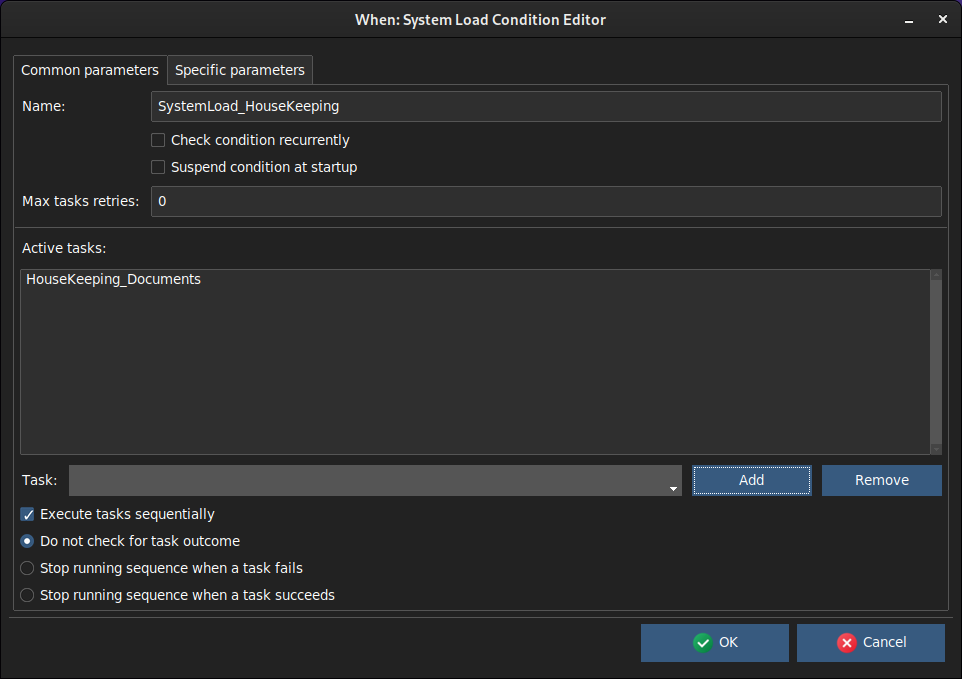
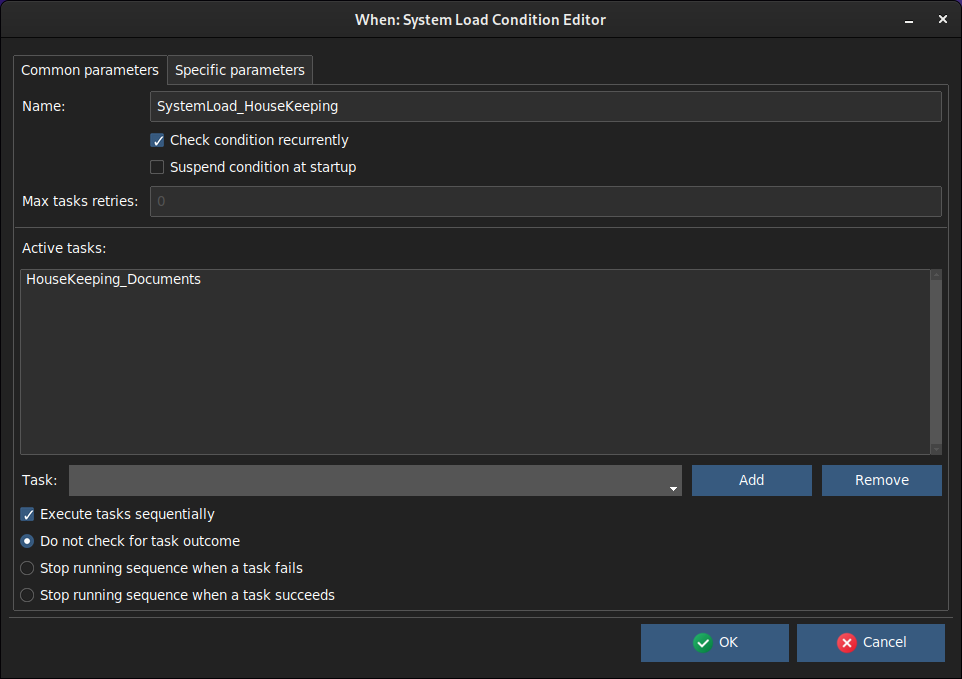
Documentation amendments and fixes

Changed region(s): [[0.1559, 0.1237, 0.3742, 0.2784], [0.0312, 0.2784, 0.1871, 0.3093]]

diff --git a/support/docs/tutorial.md b/support/docs/tutorial.md
@@ -30,25 +30,25 @@ We will use the environment variable method to let _restic_ know where the repos
 As we do not want to pollute the environment, we will set tese variables directly in the task definitions. We will define two tasks:
 
 1. the first task will actually backup some directories,
-2. the second task will perform some maintenance in the backups.
+2. the second task will perform some backup repository maintenance.
 
 We want to backup our _Documents_ and our _Pictures_ directories: on Windows they are located respectively in `C:\Users\username\Documents` and `C:\Users\username\Pictures`.
 
 > **Note**: Depending on the amount of data, the first backup can take quite a long time in order to be carried out: consider the option of forcing a full backup by issuing the command `restic backup Documents Pictures` from the command line in your home directory, before automating it using **When**.
 
-First off, we launch the configuration utility: if the program icons for **When** had been created as described in the installation instructions, then clicking _Configure When_ on the desktop or selectiong it in the _Start_ menu should be sufficient. Another option is to launch `when config` from the command line or, if there is an instance of **When** running, to right-click the clock-shaped system tray icon, and to select _Configurator..._ from the context menu. The result is the same: the configuration GUI utility is launched, and we will click the _New_ button, which in turn allows us to select a _Command Based Task_:
+First off, we launch the configuration utility: if the program icons for **When** had been created as described in the installation instructions, then clicking _Configure When_ on the desktop or in the _Start_ menu should be sufficient. Other options are to launch `when config` from the command line or, if there is an instance of **When** running, to right-click the clock-shaped system tray icon, and to select _Configurator..._ from the context menu. The result is the same, apart from what we'll see below for the latter, that is the configuration GUI utility is launched, and we will click the _New_ button, which in turn allows us to select a _Command Based Task_:
 
 ![TutorialBackup01](graphics/tutorial_task_new_cmd01.png)
 
 Clicking _Ok_ takes us to the specific task editor. We choose to start _restic_ in the home directory, in order to only mention subdirectories on the command line: this can be done by specifying the home directory in the _Working Folder_ text entry, which can also be done by selecting it via the three-dotted button on its right side. Actually, for new _Command Based Tasks_, **When** proposes the home directory as the default value for this entry, so in our case it can be just left as it is.
 
-We have to define the two aforementioned variables in our task environment: to do so, for each of them, the name (which on Windows is not case sensitive, but it could be better to respect the casing specified in the _restic_ documentation just to be sure) has to be written in the entry labeled _Variable Name:_, the value in the one labeled _New Value:_, and then the _Update_ button has to be clicked. Clicking _Update_ either sets a new variable (if the name is not present) or updates an existing one.
+We have to define the two aforementioned variables in our task environment: to do so, for each of them, the name (which on Windows is not case sensitive, but it could be better to respect the casing specified in the _restic_ documentation just to be sure) has to be written in the entry labeled _Variable Name_, the value in the one labeled _New Value_, and then the _Update_ button has to be clicked. Clicking _Update_ either sets a new variable (if the name is not present) or updates an existing one.
 
 Before clicking _Ok_ the form should be configured as follows:
 
 ![TutorialBackup02](graphics/tutorial_task_backup01.png)
 
-The reason why we chose to check for a failure in _restic_ and that such failure only occurs with an exit code of _1_ is that this is the exit code that _restic_ uses to inform that no snapshot could be taken at all. Since some files could be open during backup (it will be unattended, after all), maybe _restic_ will not be able to backup really everything. So we consider our backup to be a failure only when it is a total failure.
+The reason why we chose to check for a failure in _restic_ and that such failure only occurs with an exit code of _1_ is that this is the exit code that _restic_ uses to inform that no snapshot could be taken at all. Since some files could be open during backup (it should be unattended, after all), maybe _restic_ will not be able to backup really everything. So we consider our backup to be a failure only when it is a _complete_ failure.
 
 We could have accepted the suggested name for the task, something similar to _CommandTask_086F5F6C49_, but it would have been hardly recognizable when defining under which conditions it should take place.
 
@@ -61,7 +61,7 @@ We also want to perform some maintenance after we backed up our stuff. Namely we
 
 Yes, _restic_ [allows us to do so](https://restic.readthedocs.io/en/stable/060_forget.html#removing-snapshots-according-to-a-policy): everybody loves _restic_ and this is not a surprise to me. Following the documentation we should build a command line like the following:
 
-```text
+```shell
 restic --quiet forget --keep-daily 7 --keep-weekly 4 --keep-monthly 12 --keep-yearly 3 --prune
 ```
 
@@ -100,7 +100,7 @@ Here we just write _3_ in the only available text entry: _minutes_ is the defaul
 
 This example was in the original **When** tutorial, I found it useful on Linux because many utilities leave temporary backups (those files that end with a _tilde_ `~` character) when you modify a file by default. On one hand I didn't want to modify the default settings of all of these utilities, and on the other I didn't like to find my _Documents_ folder full of these files that I had to find and remove from time to time.
 
-This example is on an up-to-date Linux machine, assuming a working Gnome on X.org desktop session, and a simple shell script will be used as the cleanup command. It also assumes that the CLI command to move files to the _Trash_ bin is installed, in order to avoid to completely remove these files, as they could be useful anyway in some cases. If the `trash` command is not available, the following command can be used on Debian based distributions:
+This example takes place on an up-to-date Linux machine, assuming a working Gnome on X.org desktop session, and a simple shell script will be used as the cleanup command. It also assumes that the CLI command to move files to the _Trash_ bin is installed, in order to avoid to completely remove these files, as they could be useful anyway in some cases. If the `trash` command is not available, the following command can be used on Debian based distributions:
 
 ```shell
 sudo apt install trash-cli
@@ -123,7 +123,7 @@ find . -path ./.local/share/Trash -prune \
     -exec trash -f '{}' \;
 ```
 
-and save the file hitting _Ctrl+S_, then _Ctrl+X_ to exit the editor. The reason for the `-path ./.local/share/Trash -prune` line is that, since this script could be started in any directory, including the home directory (where _./.local/share/Trash_ is found), we do not want the script to handle files already in the _Trash_ bin again. Of course, being this a single command, the same command have been placed directly in the _command_ section of a [Command Based Task](tasks.md#command), but a small script does not really introduce extra costs and make things somewhat more clear. At last we change permissions for the script, in order for it to be executable:
+and save the file hitting _Ctrl+S_, then _Ctrl+X_ to exit the editor. The reason for the `-path ./.local/share/Trash -prune` line is that, since this script could be started in any directory, including the home directory (where _./.local/share/Trash_ is found), we do not want the script to handle files already in the _Trash_ bin again. Of course, being this a single command, the same command could have been placed directly in the _command_ section of a [Command Based Task](tasks.md#command), but a small script does not really introduce extra costs and make things somewhat more clear. At last we change permissions for the script, in order for it to be executable:
 
 ```shell
 chmod a+x housekeep.sh
@@ -136,11 +136,13 @@ cd
 when config
 ```
 
-Of course, if **When** is already running, the tray icon can be clicked and _Configure..._ can be selected in the popup menu window. The task has to be created first, and clicking _New_ and selecting a command based task as in the previous example brings up the command task editor form. We just chenge the name of the task to be something more understandable, point to the script as our command and set the working directory:
+Of course, if **When** is already running, the tray icon can be clicked and _Configure..._ can be selected in the popup [menu form](tray.md#menu-form). The task has to be created first, and clicking _New_ and selecting a command based task as in the previous example brings up the command task editor form. We just change the name of the task to be something more understandable, point to the script as our command and set the working directory:
 
-[TutorialChores01](graphics/tutorial_task_chores01.png)
+![TutorialChores01](graphics/tutorial_task_chores01.png)
 
-We leave all other parameters alone, because the script takes no arguments and does not explicitly return anything meaningful. What we want is for it to run from time to time regardless of the outcome: if one or more files could not be sent to the bin, it probably will happen the next time the script runs. Now we set up a condition to tell **whenever** in which case the scrippt has to be run. The script is in fact very lightweight, and it will probably never really disturb us. However, running it on a strict (and possibly tight) time schedule might be overkill: some possible choices that do not depend on time might be
+Note that the _Command_ entry shows the full path of our command: this is because I used the three-dotted button at the side of the entry to open a dialog box that allows to look for the executable file. Actually, if _housekeep.sh_ is in the _PATH_ as expected, we could just type `housekeep.sh` in the entry itself.
+
+We leave all other parameters alone, because the script takes no arguments and does not explicitly return anything meaningful. What we want is for it to run from time to time regardless of the outcome: if one or more files could not be sent to the bin, it probably will happen the next time the script runs. Now we set up a condition to tell **whenever** in which case the script has to be run. The script is in fact very lightweight, and it will probably never really bother us. However, running it on a strict (and possibly tight) time schedule might be overkill: some other possible choices that do not depend on time are
 
 1. on idle time
 2. when the workstation isn't really working a lot
@@ -148,15 +150,17 @@ We leave all other parameters alone, because the script takes no arguments and d
 
 We used the first type of condition in the previous example. The third one might be interesting, but it can lead to a lot of work, especially if the contents of the folder change often (which is likely to happen). So we go for the second option: we click _New_ again, select _Condition_ as item type, and choose a [System Load Below Threshold Condition](cond_extra01.md#system-load):
 
-[TutorialChores02](graphics/tutorial_cond_new_chores01.png)
+![TutorialChores02](graphics/tutorial_cond_new_chores01.png)
 
-Clicking _Ok_ takes us to the condition editor. In the common section we just change the condition name and specify the task to be run, by selecting it from the drop down list. It will be the only task, so every other common option has little or no influence, and we leave them as per default:
+Clicking _Ok_ takes us to the condition editor. In the common section we change the condition name and specify the task to be run, by selecting it from the drop down list. It will be the only task, so every other common option has little or no influence, and we leave them as per default:
 
-[TutorialChores03](graphics/tutorial_cond_chores01.png)
+![TutorialChores03](graphics/tutorial_cond_chores01.png)
 
-The name is now _SystemLoad_HouseKeeping_, which is meaningful enough for us. Going to the common section, we can leave the value for the _Load is Below_ entry as _3%_ (that is, the default): it is quite low but not completely unlikely to happen on most modern workstations. Of course your case could be different, and a higher value might be more appropriate.
+The name is now _SystemLoad_HouseKeeping_, which is meaningful enough for us. We also checked the _Check condition recurrently_ option: we said that we want to run the script from time to time during the session, and leaving the option unchecked means that the script will be executed only once per session -- that is, after the first _successful_ condition check, no more checks will take place.[^1]
 
-[TutorialChores04](graphics/tutorial_cond_chores02.png)
+Going to the common section, we can leave the value for the _Load is Below_ entry as _3%_ (that is, the default): it is quite low but not completely unlikely to happen on most modern workstations. Of course your case could be different, and a higher value might be more appropriate.
+
+![TutorialChores04](graphics/tutorial_cond_chores02.png)
 
 After clicking _Ok_ we are done: we can now save our new configuration and it will be active at the next start of **When**. Or, as in the previous example, **When** can reload the configuration by clicking the _Reload_ button -- which is available if the configuration has been edited accessing the configuration utility from the popup menu in a running **When** instance.
 
@@ -175,3 +179,6 @@ There are many ways to use **When** as an automation tool, this tutorial only sh
 
 
 [`◀ Main`](main.md)
+
+
+[^1]: Unless task outcomes are taken into account, and **whenever** is instructed to insist checking the condition until associated tasks run successfully.

diff --git a/support/docs/tray.md b/support/docs/tray.md
@@ -1,6 +1,6 @@
 # System Tray Resident Application
 
-The system tray resident wrapper to **whenever** is launched via the `start` command: this option takes care of launching the **whenever** scheduler executable in the background, also avoiding to show the console window on _Windows_ desktops, and taking care to capture the scheduler output, interpret it to keep track of the tasks that have been executed along with their outcomes, and write the scheduler log to the [_application data_](appdata.md) directory. It also displays a clock icon in the tray area, meaning that the scheduler is active, which can be right-clicked with the mouse to allow a certain degree of interaction with the underlying scheduler itself.
+The system tray resident wrapper to **whenever** is launched via the `start` command or via the _When Start_ desktop or menu icon: it launches the **whenever** scheduler executable in the background, also avoiding to show the console window on _Windows_ desktops, and taking care to capture the scheduler output, interpret it to keep track of the tasks that have been executed along with their outcomes, and write the scheduler log to the [_application data_](appdata.md) directory. The resident wrapper also displays a clock icon in the tray area, meaning that the scheduler is active, which can be right-clicked (left-clicked on Linux machines, see below) to allow a certain degree of interaction with the underlying scheduler itself.
 
 ![TrayMenu](graphics/when-tray-menu.png)
 
@@ -21,6 +21,8 @@ When launching the resident wrapper, the following parameters can be specified o
 
 However, it is recommended _not_ to specify a custom _APPDATA_ directory unless really needed, because by default both **When** and **whenever_tray** use this directory to locate the scheduler configuration file -- that is, the one generated by **When** in configuration mode.
 
+The suggested [installation procedure](install.md) and, in particular, adding icons for **When** with the `--autostart` option, can be used to set it up to automatically start at the beginning of the desktop session.
+
 
 ## Menu Form
 
@@ -29,6 +31,11 @@ Modern linux distributions based on the Gnome desktop environment do not actuall
 ![MenuForm](graphics/when-menu-form.png)
 
 This menu window shows exactly the same entries as the missing tray menu (plus a _Cancel_ button to hide it): clicking the buttons invokes the same tools that the corresponding menu entries would bring up.
+
+
+## See Also
+
+* [Installation](install.md)
 
 
 [`◀ Main`](main.md)

diff --git a/support/docs/history.md b/support/docs/history.md
@@ -13,7 +13,7 @@ The list, representing the last completed tasks in descending time order (that i
 * _OK_: a sign indicating the outcome: a checkmark for a positive outcome, a cross for a negative one, the empty set sign for undetermined results
 * _Message_: additional information provided by **whenever**
 
-The history box does not capture results in real time, it just displays the results at the time of its display. Only the latest 100 results are displayed -- this might become a configurable parameter in further versions.
+The history box does not capture results in real time, but the _Reload_ button can be used to update its contents instantly. Only the latest 100 results are displayed -- this might become a configurable parameter in further versions.
 
 
 ## See Also

diff --git a/support/docs/main.md b/support/docs/main.md
@@ -12,9 +12,10 @@ Actually, **When** consists of several different applications which are launched
 
 * [configuration-only](cfgform.md) application: `config`
 * resident [tray area](tray.md) application: `start`
+* various helpful [setup](install.md#installation-completion) utilities: `tool`
 * ...
 
-See the specific parts of the documentation for details on each application.
+See the specific parts of the documentation for details on each application. The suggested [installation procedure](install.md), however, can be used to set up application icons for the resident application and for the configuration utility, as well as to configure **When** to start in the background at login.
 
 
 ## About this Documentation
